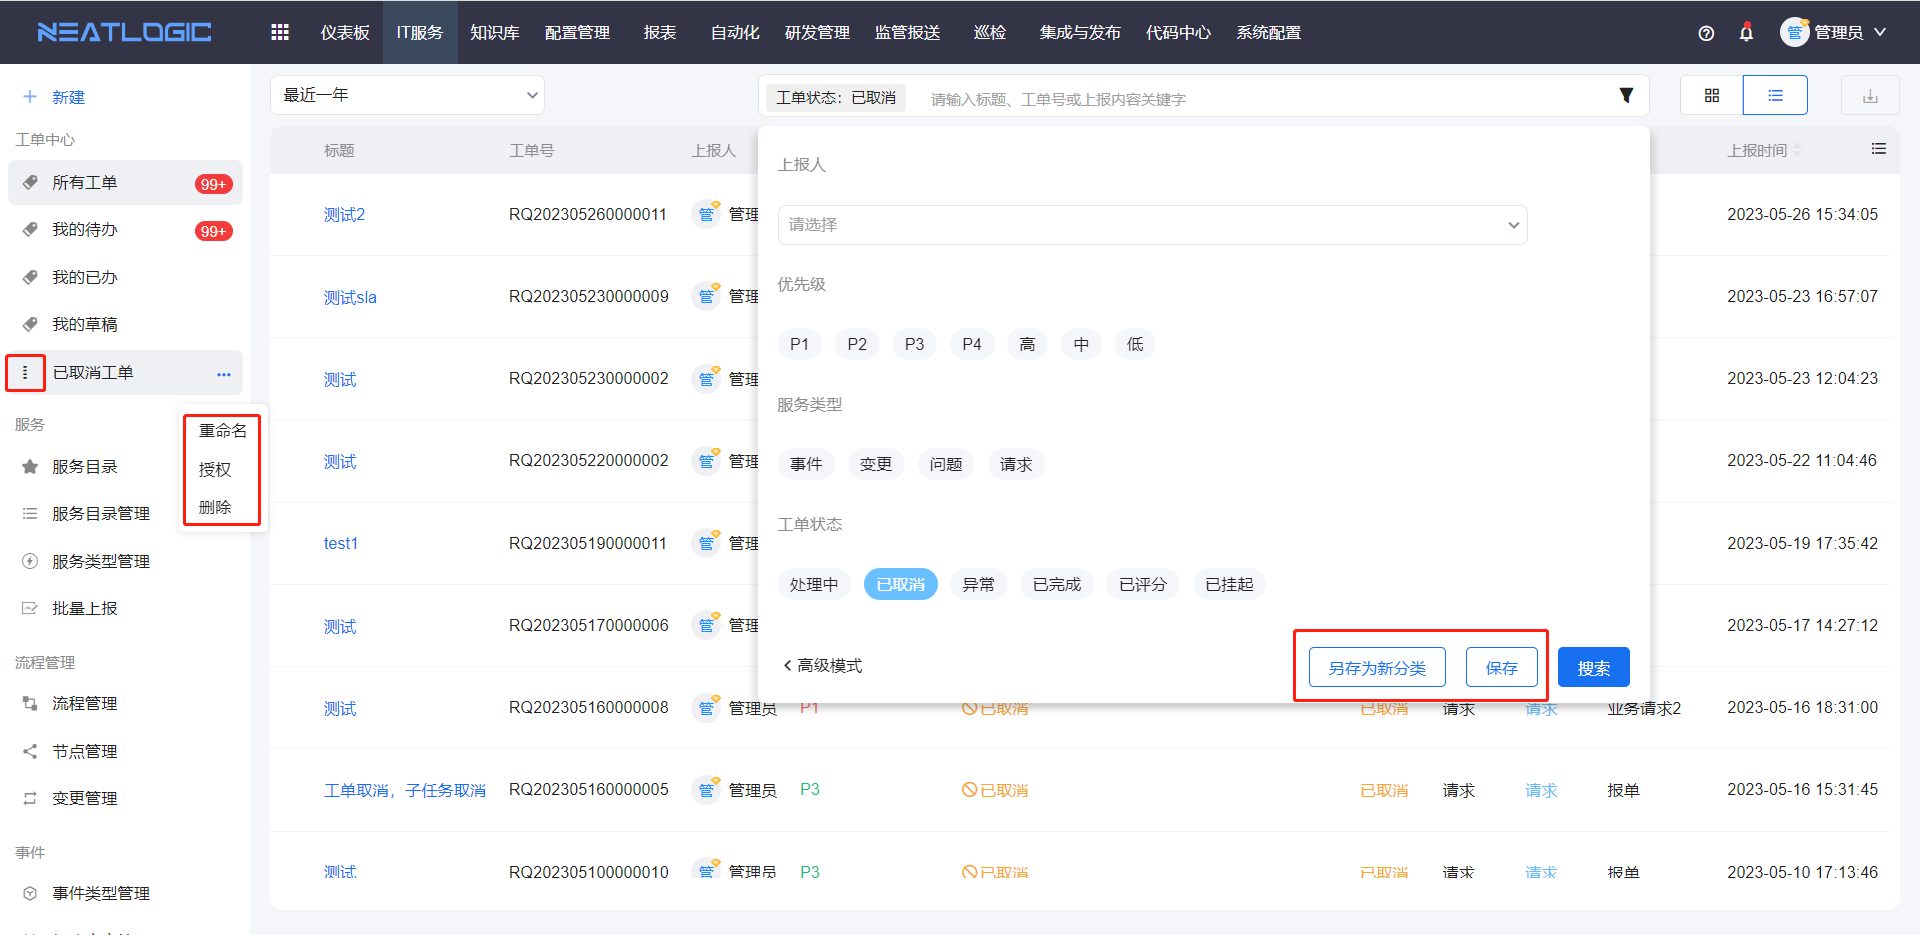
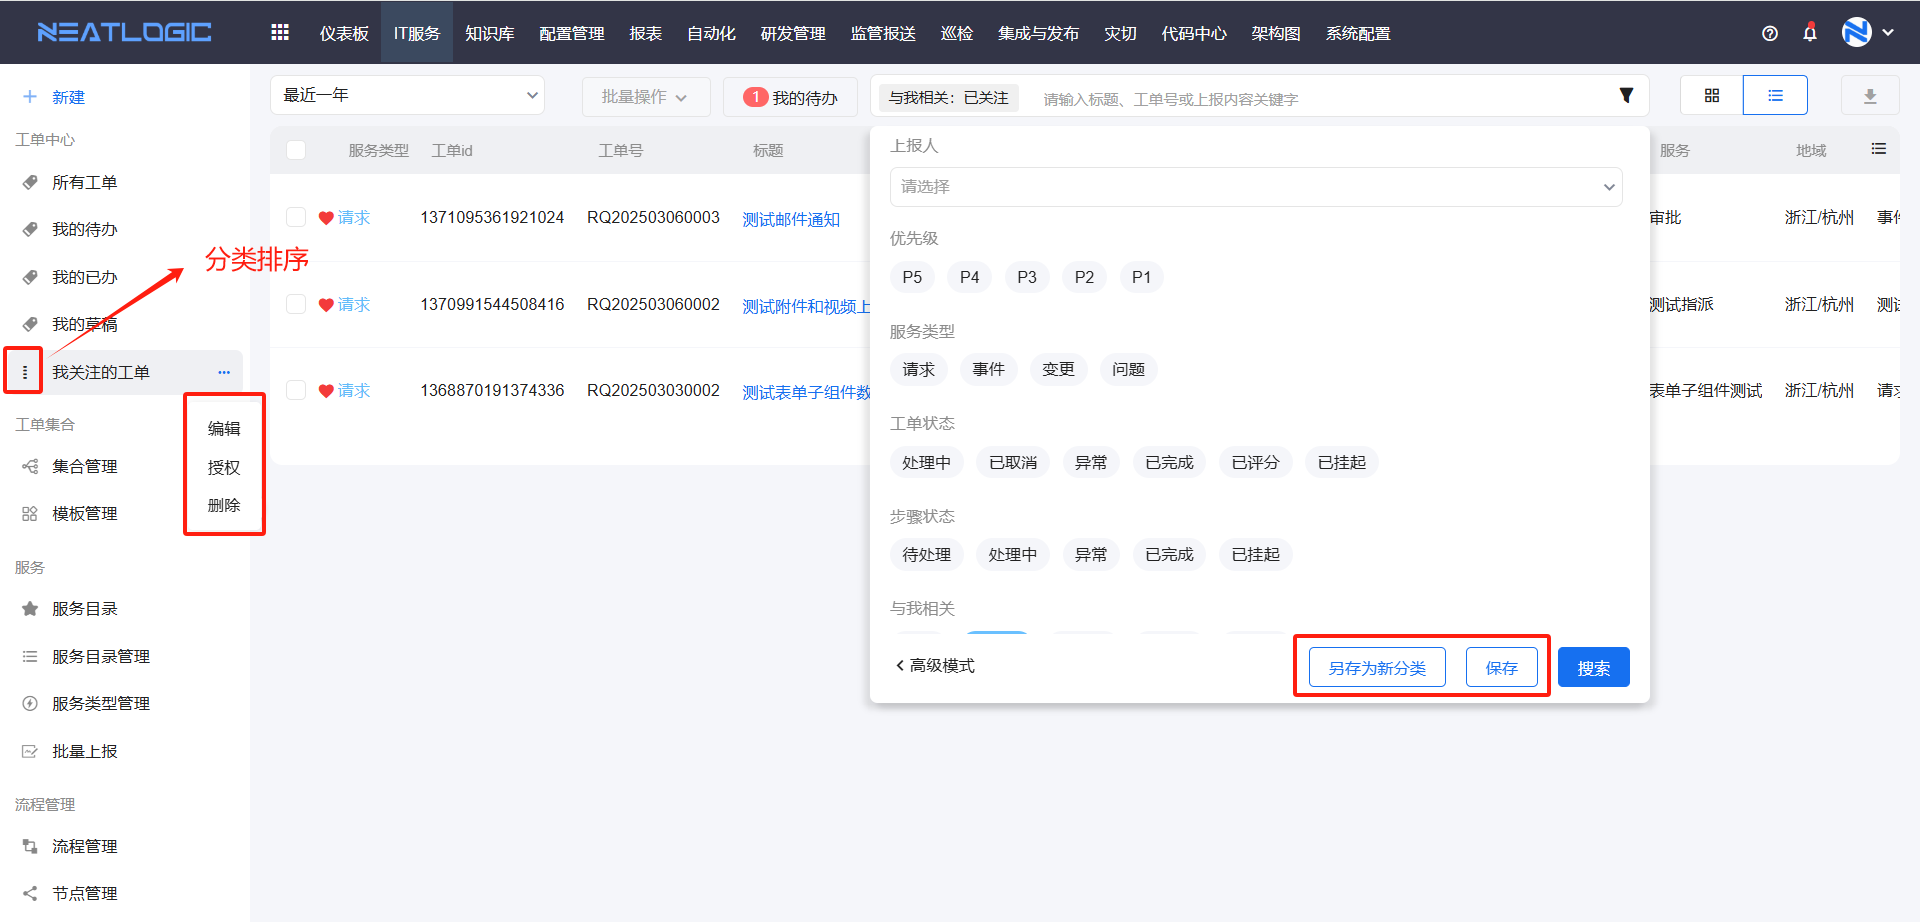
更新工单中心和服务配置说明

diff --git a/src/main/resources/neatlogic/resources/documentonline/zh/2.IT服务/工单中心/工单中心.md b/src/main/resources/neatlogic/resources/documentonline/zh/2.IT服务/工单中心/工单中心.md
@@ -1,13 +1,16 @@
 # 工单中心
-工单中心的工单分类是用于展示任务信息的列表，每个工单分类都定义了过滤条件。工单分类上还包括保存、重命名、授权和删除等操作，还支持自定义条件并另存为新分类。用户支持对可查看的工单分类排序，该排序仅对本人有效。
+工单中心的分类是根据搜索条件对工单分类的工单列表，工单列表的字段有初始默认字段及初始排序，用户可个性化重定义显示字段及字段排序。已有分类支持保存、编辑、授权和删除等操作，另外还可以修改搜索条件并另存为新分类。用户可对分类重新拖动排序，该排序仅对本人有效。
 ![](images/工单中心.png)
 
 ## 工单分类
-工单分类主要分为系统自带的分类、系统分类和个人分类。
+工单分类主要分为系统出厂分类、系统分类和个人分类。
 
-### 系统自带的工单分类
-工单中心有四个系统自带的分类，分别为所有工单、我的待办、我的已办和我的草稿，管理员只能将这些分类授权给任意用户使用，不能编辑和删除。
-![](images/系统自带的工单分类.png)
+工单数据有自动刷新功能，由[系统参数](../../100.系统配置/5.基础服务/基础服务.md)“workcenter.auto.refresh”控制的，当变量值为0时，自动刷新功能关闭。
+![](images/工单列表_自动刷新配置.png)
+
+### 系统出厂分类
+工单中心有四个系统出厂分类，分别为所有工单、我的待办、我的已办和我的草稿，管理员能编辑出场分类和把出厂分类授权给普通用户使用，出场分类不能删除。
+![](images/系统出厂分类.png)
 - 所有工单：所有最近一年上报的工单。
 - 我的待办：当前步骤的处理人、待处理人、审批链当前审批步骤的待处理人、子任务处理人是当前登录人的工单集合。
 - 我的已办：包括历史步骤的处理人是当前登录人的工单、已完成处理的子任务的处理人包含当前登录人的工单、已完成的审批链的处理人包含当前登录人的工单、由当前登录人转交过的工单
@@ -31,12 +34,13 @@
 ### 个人分类
 个人分类是用户个人使用的分类，个人分类支持修改条件并保存、重命名和删除等操作。若用户的另存为新分类权限收回后，该分类也会收回。
 ![](images/个人分类.png)
-用户新增个人分类有上限，这个上限是由 系统配置-配置信息管理 页面的变量“workcenter.custom.limit”控制。
+用户新增个人分类有上限，这个上限是由[系统参数](../../100.系统配置/5.基础服务/基础服务.md)“workcenter.custom.limit”控制。
 ![](images/个人分类限制数量.png)
 
 ## 工单搜索
 工单搜索分为简单模式和高级模式，默认为简单模式。
 ![](images/工单搜索.gif)
+
 ### 简单模式
 简单模式下，搜索框支持输入关键字匹配，也支持通过工单属性过滤工单，还可以通过工单表单属性过滤工单。
 1. 输入框关键字匹配<br>
@@ -67,8 +71,6 @@
 工单列表的查看方式支持表格和卡片两种方式，列表模式下，可修改显示字段并调整字段顺序。工单列表还支持下载当前搜索结果中的所有工单数据。
 ![](images/工单列表.png)
 自动刷新：用户正在查看工单列表时，如果有其他用户发起新工单或处理工单，导致工单列表数据变更，工单列表默认自动更新。<br>
-自动刷新功能是由系统变量“workcenter.auto.refresh”控制的，可以在 系统配置-配置信息管理 中修改，当变量值为0时，自动刷新功能关闭。
-![](images/工单列表_自动刷新配置.png)
 
 ### 列表模式
 修改显示字段和调整字段顺序，标题的字段支持设置是否启用换行。
@@ -76,10 +78,13 @@
 隐藏/显示、删除、取消、催办、关注工单
 ![](images/工单列表_操作.png)
 关于关注工单，整行聚焦工单时，左侧出现一个爱心图标，点击后即表示当前用户关注了该工单，用户可以通过“与我相关”的搜索条件过滤我关注的工单。
-点击标题的场景：<br>
-1. 登录人不是步骤处理人和待处理人，跳转到工单详情页面
-2. 登录人是工单步骤处理人（已接单），跳转到工单处理页面
-3. 登录人是工单步骤待处理人（未接单），跳转到工单处理页面，但步骤未开始处理
+
+点击标题的说明：<br>
+1. [系统参数](../../100.系统配置/5.基础服务/基础服务.md)“workcenter.processtask.newpage”可控制是否打开新页面跳转。若参数值为0时，直接刷新当前页面跳转；若参数值为1时，打开新页签跳转。
+   ![](images/工单中心_点击标题是否打开新页面.png)
+2. 登录人不是步骤处理人和待处理人，跳转到工单详情页面
+3. 登录人是工单步骤处理人（已接单），跳转到工单处理页面
+4. 登录人是工单步骤待处理人（未接单），跳转到工单处理页面，但步骤未开始处理
    
 点击处理按钮的场景：<br>
 1. 如登录人是工单步骤的处理人，直接跳转到工单处理页

diff --git a/src/main/resources/neatlogic/resources/documentonline/zh/2.IT服务/服务/服务类型管理.md b/src/main/resources/neatlogic/resources/documentonline/zh/2.IT服务/服务/服务类型管理.md
@@ -1,5 +1,5 @@
 # 服务类型管理
-服务类型是指工单所属的服务分类，服务类型完全由用户根据需求自定义。
+服务类型是指工单所属的服务分类，服务类型完全由用户根据需求自定义，应用于服务目录的配置。
 ![](images/服务类型管理.png)
 
 ## 服务类型配置
@@ -22,5 +22,5 @@
   ![](images/服务类型管理_颜色_工单.png)
 
 ## 更新工单号
-重新编辑服务类型的工单号前缀和工单号规则后，如果要批量更新历史工单，需要执行更新工单号操作，否则新工单才会按照更新的配置来生成工单号。
+重新编辑服务类型的工单号前缀和工单号规则后，如果要批量更新历史工单，需要执行更新工单号操作，新工单才会按照更新的配置来生成工单号。
 ![](images/服务类型管理_更新工单号.png)

diff --git a/src/main/resources/neatlogic/resources/documentonline/zh/2.IT服务/服务/服务目录管理.md b/src/main/resources/neatlogic/resources/documentonline/zh/2.IT服务/服务/服务目录管理.md
@@ -1,7 +1,7 @@
 # 服务目录管理
-服务目录管理包括[目录](#目录)和[服务](#服务)的新增、修改、删除和授权等功能，服务可建立与流程的联系，并个性化配置服务的字段属性，如优先级、并用于发起工单。<br>
+服务目录管理包括[目录](#目录)和[服务](#服务)的配置，目录是就是服务的目录层级关系，服务是发起工单的媒介。<br>
 关于目录和服务的权限，父目录的权限 > 子目录的权限 > 目录下服务的权限<br>
-若目录未授权给用户，目录下级的子目录和服务均不显示在服务目录页面中，无论用户是否被授予子目录和服务的权限。
+若目录未授权给用户，用户访问服务目录页面时，会过滤掉其子目录和服务，无论用户是否有子目录和服务的权限。
 ## 目录
 
 - 添加
